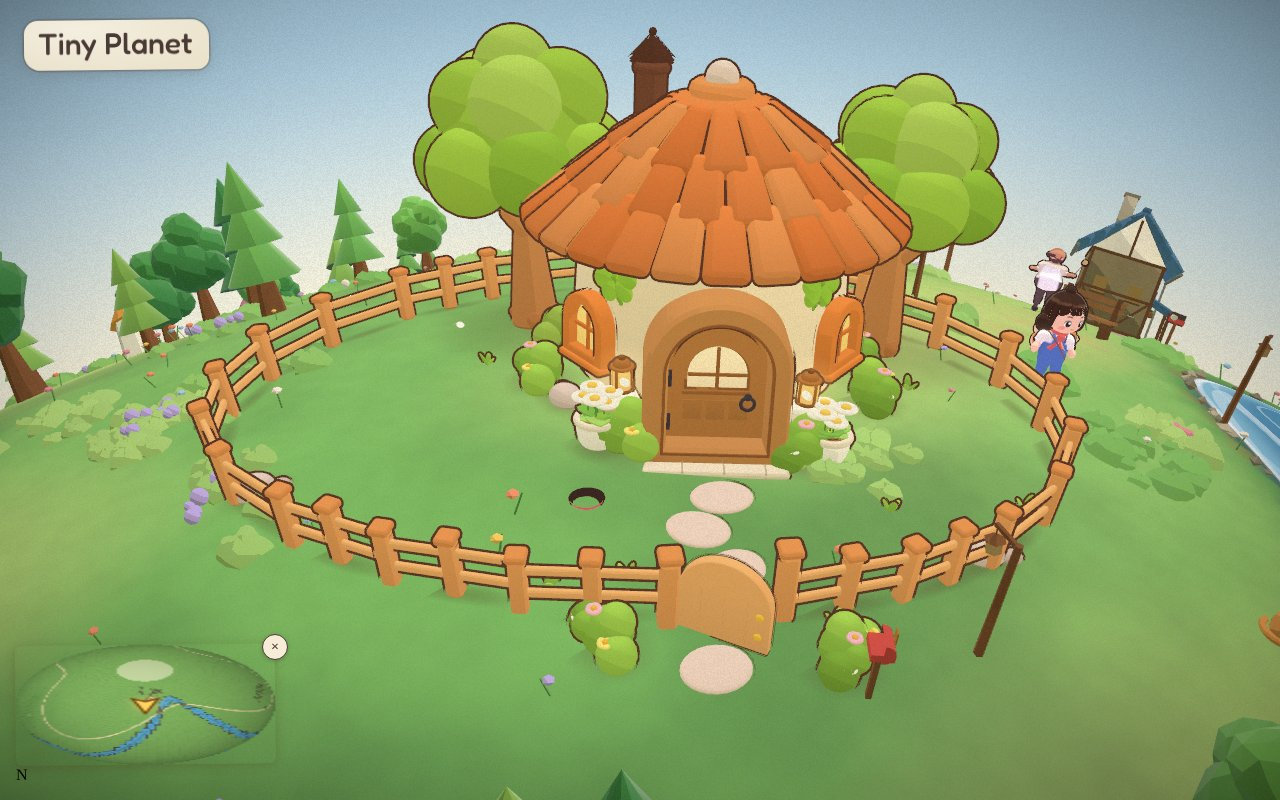
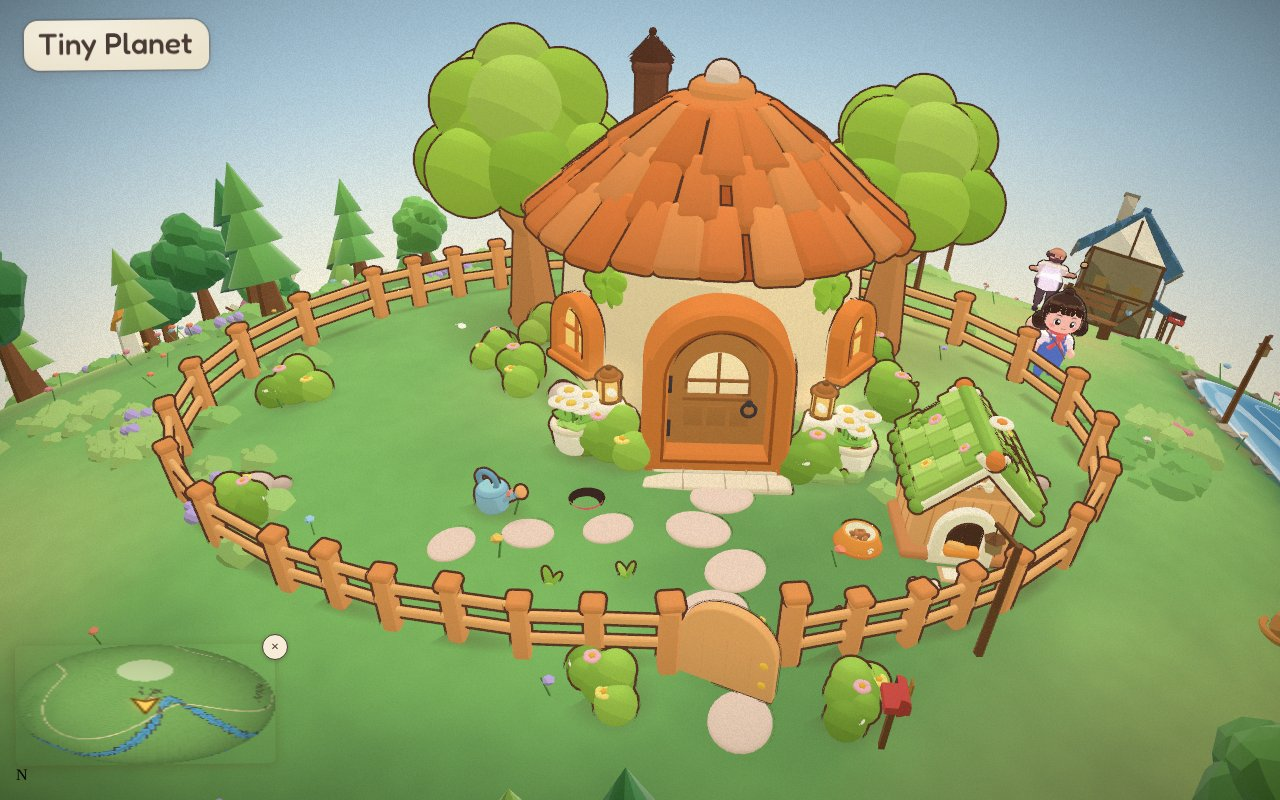
Home yard: dog house faces the front like the cottage; bigger fence oval (2.0 x 1.6), gate and path move out
- Mailbox and an extra stepping stone follow the gate; chew bone sits by the doormat

Claude-Session: https://claude.ai/code/session_01CNaBwK9YXZ5oYtTd2WVtoL

diff --git a/src/home/yard.js b/src/home/yard.js
@@ -9,17 +9,17 @@ export const YARD = {
   houseR: 0.7, // collider radius (the bulging walls + entrance bushes)
   doorZ: 0.45, outZ: 1.0, // 'Go inside' prompt point; where she steps out to
   trees: [{ x: -0.82, z: -0.56, seed: 1, crown: 0.33 }, { x: 0.86, z: -0.46, seed: 2.3, crown: 0.3 }],
-  bench: [1.0, 0.5], mailbox: [0.48, 1.92], // the mailbox stands just outside the front gate
-  stones: [[0.02, 0.98, 0.2], [-0.08, 1.18, -0.4], [0.05, 1.39, 0.9], [-0.04, 1.86, 0.3]],
+  bench: [1.0, 0.5], mailbox: [0.5, 2.12], // the mailbox stands just outside the front gate
+  stones: [[0.02, 0.98, 0.2], [-0.08, 1.18, -0.4], [0.05, 1.39, 0.9], [-0.04, 1.6, 0.3], [0.03, 2.07, 1.4]],
   // the crop corner: a stone path from the front path to the beds, a watering can, flowering bushes at the bed corners
   gardenStones: [[-0.42, 1.2, 0.6], [-0.72, 1.24, -0.3], [-1.0, 1.3, 1.1]],
   gardenCan: [-0.86, 1.08, -0.6], gardenBushes: [[-1.86, 0.1, 0.9], [-1.86, 1.02, 0.8], [-0.95, -0.1, 0.75]],
-  // Pip's dog house: front-right between the bench and the gate, its door turned to the stepping-stone path
-  dogHouse: { x: 0.86, z: 1.02, yaw: -1.3 },
+  // Pip's dog house: front-right between the bench and the gate, facing the front like the cottage
+  dogHouse: { x: 0.92, z: 1.02, yaw: 0 },
   rocks: [[1.3, 0.62, 0.4], [-0.62, 0.32, 2.1], [0.35, -0.75, 1], [-1.85, 0.9, 0.5]],
   sprouts: [[0.52, 0.78], [-0.35, 1.45], [0.95, -0.05], [-1.0, -0.05], [0.4, 1.6], [1.3, 0.8], [-0.62, 1.5]],
   // the yard fence: an oval round the house, trees, bench and crop beds, the gate in front on the stepping stones (x = 0)
-  fence: { cx: -0.3, cz: 0.25, rx: 1.85, rz: 1.4, gateW: 0.42, seg: 0.45 },
+  fence: { cx: -0.3, cz: 0.25, rx: 2.0, rz: 1.6, gateW: 0.42, seg: 0.45 },
 }
 // 2 x 3 beds in the yard, left of the house, 0.36 apart (Stage B plots: systems/World3D.jsx, the lawn keeps tufts off them)
 export const GARDEN_BEDS = [[-1.16, 0.26], [-1.52, 0.26], [-1.16, 0.62], [-1.52, 0.62], [-1.16, 0.98], [-1.52, 0.98]]

diff --git a/src/props/items/exterior.js b/src/props/items/exterior.js
@@ -226,7 +226,7 @@ defineProp('dogHouse', { name: "Pip's dog house", size: [0.62, 0.46, 0.46], tags
   // the name plaque on the gable, paw prints on the sides
   bone(k, [0, top + 0.045, fz - 0.002], 0.065, 0.014, 'plaque'); paw(k, 0, top + 0.04, fz + 0.01, 0.006, 'pawInk')
   for (const sd of [-1, 1]) k.within(mat(sd * (W / 2 + 0.004), B + H * 0.5, 0, sd * PI / 2), () => paw(k, 0, -0.01, 0, 0.016, 'sidePaw'))
-  if (o.bone) bone(k, [-0.22 * o.bowlSide, 0.012, 0.22], 0.06, 0.013, 'bone', { flat: true, rot: [0, 0.6, PI / 2] })
+  if (o.bone) bone(k, [0.13 * o.bowlSide, 0.012, 0.3], 0.06, 0.013, 'bone', { flat: true, rot: [0, 0.6, PI / 2] })
   const bx = 0.3 * o.bowlSide // bowlSide: 1 = on the door's right, -1 = its left
   if (o.bowl) k.use('dogBowl', mat(bx, 0, 0.12, -0.4 * o.bowlSide), { shadow: false })
   k.shadow(0.5, 0.44, [0, 0.003, 0.02]); if (o.bowl) k.shadow(0.16, 0.16, [bx, 0.003, 0.12])
